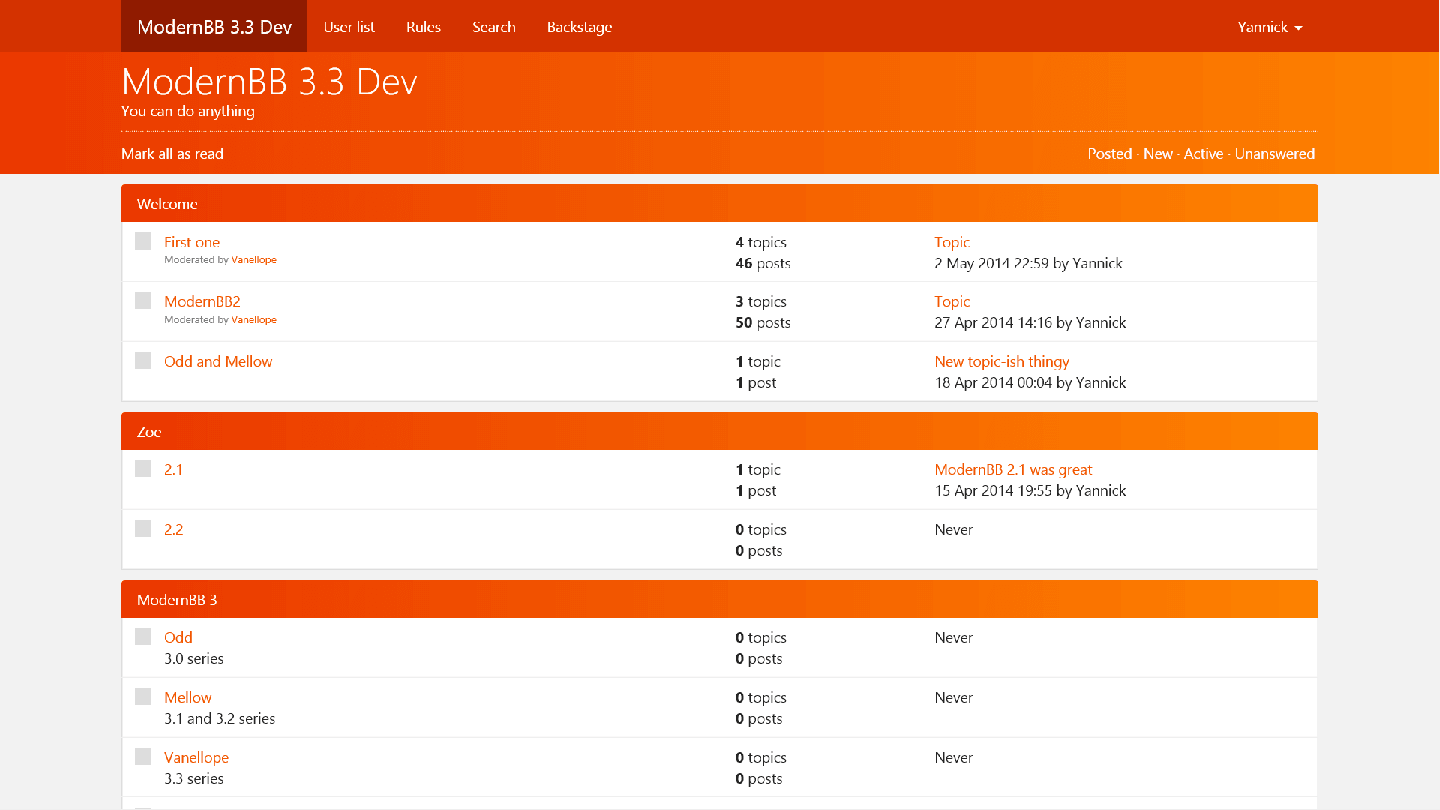
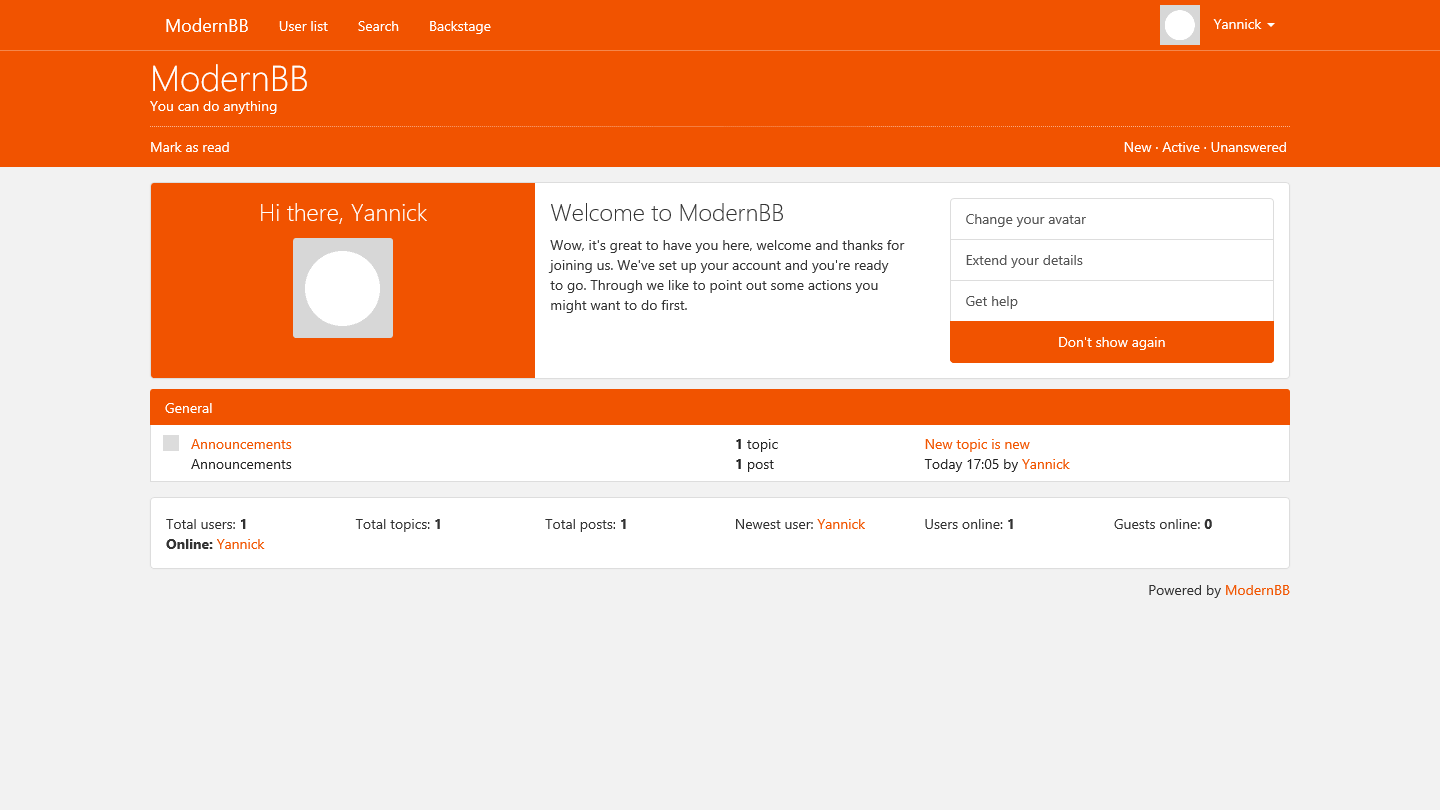
#979 Radical 4.0 update

diff --git a/style/Radical/style.css b/style/Radical/style.css
@@ -71,8 +71,7 @@ h1, h2, h3, h4, h5, h6 {
 
 /* Header */
 #header {
-	background: #ea3700;
-	background: linear-gradient(to right, #ea3700, #fd8300);
+	background: #f15300;
 	color: #fff;
 }
 
@@ -110,11 +109,6 @@ h1, h2, h3, h4, h5, h6 {
 
 .announcement a {
 	text-decoration: underline;
-}
-@media screen and (min-width: 768px) {
-	.navbar-default .navbar-brand, .navbar-default .navbar-brand:hover, .navbar-default .navbar-brand:focus {
-		background: #901b00;
-	}
 }
 
 .avatar-item .avatar {
@@ -168,8 +162,7 @@ h1, h2, h3, h4, h5, h6 {
 }
 
 .first-run-profile {
-	background-image: url(../../img/core/firstrun.png);
-	background-size: cover;
+	background: #f15300;
 	border-bottom-left-radius: 3px;
 	border-top-left-radius: 3px;
 	padding-bottom: 16px;
@@ -187,7 +180,6 @@ h1, h2, h3, h4, h5, h6 {
 
 .first-run-avatar img {
 	border-radius: 3px;
-	box-shadow: 0px 0px 13px #808080;
 }
 
 .first-run-list {
@@ -283,8 +275,7 @@ h1, h2, h3, h4, h5, h6 {
 
 .panel-default .panel-heading {
 	border: none;
-	background: #ea3700;
-	background: linear-gradient(to right, #ea3700, #fd8300);
+	background: #f15300;
 	color: #fff;
 	height: 37px;
 }
@@ -308,23 +299,13 @@ h1, h2, h3, h4, h5, h6 {
 	margin: 0 auto;
 }
 
-@media(min-width:767px) {
-	ul.nav li.dropdown:hover > ul.dropdown-menu{
-		display: block;
-	}
-}
-
 .navbar {
-	border: none;
-	background: #d33200;
+	background: #f15300;
+	border-bottom-color: rgba(255,255,255,.3);
 }
 
-.navbar-default .navbar-nav > li > a:hover, .navbar-default .navbar-nav > li > a:focus, .navbar-default .navbar-nav > .active > a, .navbar-default .navbar-nav > .active > a:hover, .navbar-default .navbar-nav > .active > a:focus {
-	background-color: #b62b00;
-}
-
-.navbar-default .navbar-nav > .open > a, .navbar-default .navbar-nav > .open > a:hover, .navbar-default .navbar-nav > .open > a:focus {
-    background-color: #b62b00;
+.navbar-default .navbar-nav > .open > a, .navbar-default .navbar-nav > .open > a:hover, .navbar-default .navbar-nav > .open > a:focus, .navbar-default .navbar-nav > .active > a, .navbar-default .navbar-nav > .active > a:hover, .navbar-default .navbar-nav > .active > a:focus {
+background-color: transparent;
     color: #fff;
 }
 
@@ -351,7 +332,7 @@ h1, h2, h3, h4, h5, h6 {
 }
 
 .navbar-default .navbar-toggle .icon-bar {
-	background-color: #d33200;
+	background-color: #f15300;
 }
 
 /* Pagination */
@@ -366,8 +347,8 @@ h1, h2, h3, h4, h5, h6 {
 }
 
 .pagination > .active > a, .pagination > .active > span, .pagination > .active > a:hover, .pagination > .active > span:hover, .pagination > .active > a:focus, .pagination > .active > span:focus {
-	border: 1px solid #f42e00;
-	background-color: #f42e00;
+	border: 1px solid #f15300;
+	background-color: #f15300;
 }
 
 /* Profile */
@@ -377,8 +358,8 @@ h1, h2, h3, h4, h5, h6 {
 }
 
 a.active.list-group-item, a.active.list-group-item:hover, a.active.list-group-item:focus {
-	background-color: #f42e00;
-	border-color: #f42e00;
+	background-color: #f15300;
+	border-color: #f15300;
 }
 
 .profile-h2 {
@@ -524,14 +505,12 @@ a.active.list-group-item, a.active.list-group-item:hover, a.active.list-group-it
 
 .table > thead > tr.active {
 	color: #fff;
-	background: #ea3700;
-	background: linear-gradient(to right, #ea3700, #fd8300);
+	background: #f15300;
 }
 
 .category-header, .forum-header {
 	color: #fff;
-	background: #ea3700;
-	background: linear-gradient(to right, #ea3700, #fd8300);
+	background: #f15300;
 	padding: 8px 0;
 	border-top-left-radius: 3px;
 	border-top-right-radius: 3px;
@@ -583,13 +562,13 @@ a.active.list-group-item, a.active.list-group-item:hover, a.active.list-group-it
 
 .btn-primary {
 	color: #fff;
-	background-color: #f04400;
-	border: 1px solid #f06000;
+	background-color: #f15300;
+	border: 1px solid #d64a00;
 }
 
 .btn-primary:hover, .btn-primary:focus, .btn-primary:active, .btn-primary.active, .btn-primary.disabled, .btn-primary[disabled] {
-	background-color: #f07700;
-	border: 1px solid #f0af00;
+	background-color: #d64a00;
+	border: 1px solid #b83f00;
 	color: #fff;
 }
 
@@ -928,7 +907,7 @@ textarea {
 
 .profile-card-head {
 	height: 59px;
-	background-color: #ea3700;
+	background-color: #f15300;
 	color: #fff;
 	border-top-left-radius: 3px;
 	border-top-right-radius: 3px;
@@ -996,12 +975,11 @@ textarea {
     left: 4px;
     margin-top: -2px;
     border-left-width: 0px;
-    border-right-color: #ea3700;;
+    border-right-color: #f15300;;
 }
 
 .topic .panel-heading {
-	background: #ea3700;
-	background: linear-gradient(to right, #ea3700, #fd8300);
+	background: #f15300;
 }
 
 .post-actions {
@@ -1019,8 +997,7 @@ textarea {
 	}
 
 	.profile-card-head {
-		background: #ea3700;
-		background: linear-gradient(to right, #ea3700, #fd8300);
+		background: #f15300;
 	}
 
 	.topic .panel-heading  {
@@ -1104,8 +1081,7 @@ blockquote footer {
 .form-heading {
 	margin-bottom: 0px;
 	font-weight: 100;
-	background: #ea3700;
-	background: linear-gradient(to right, #ea3700, #fd8300);
+	background: #f15300;
 	color: #fff;
 	padding: 20px;
 	border-top-right-radius: 3px;

diff --git a/style/Radical/information.php b/style/Radical/information.php
@@ -15,8 +15,8 @@ $xmlstr = <<<XML
 	<id>radical</id>
 	<name>Radical</name>
 	<developer>Studio 384</developer>
-	<date>23 November 2014</date>
-	<version>3.2.2</version>
+	<date>24 November 2014</date>
+	<version>4.0-dev</version>
 	<description>As fancy as can be, Awesome is a style designed to be great and simple. Make it look red, my friend!</description>
 	<minversion>3.4.1</minversion>
 	<maxversion>3.5.3</maxversion>
